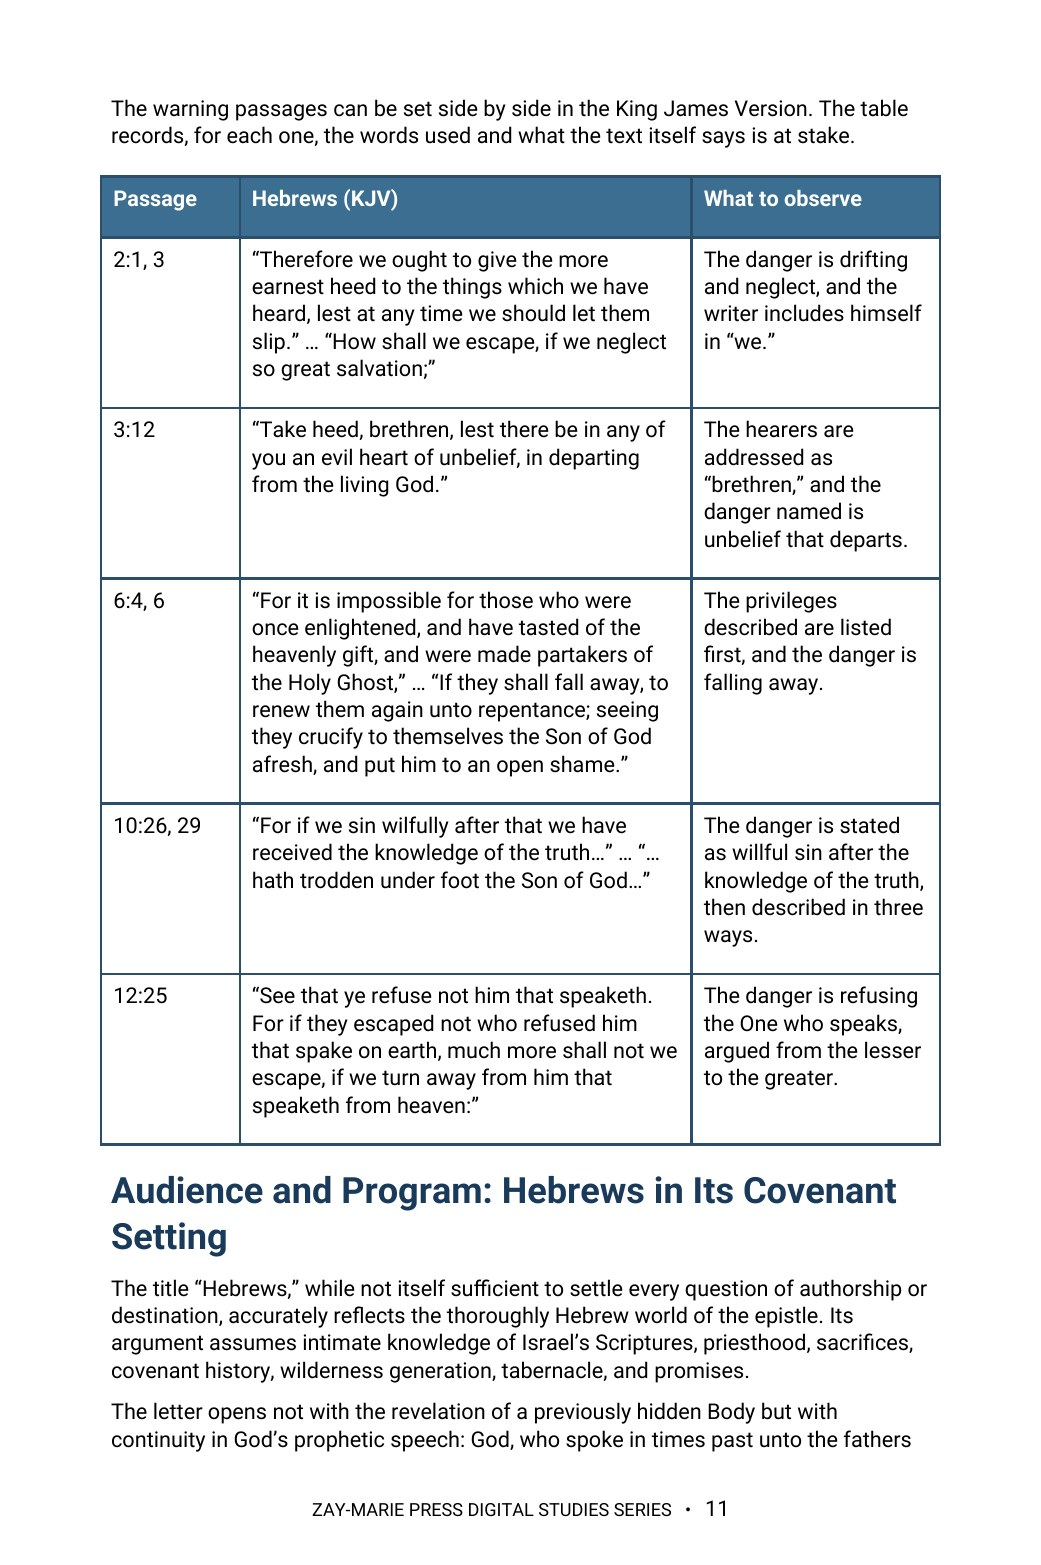
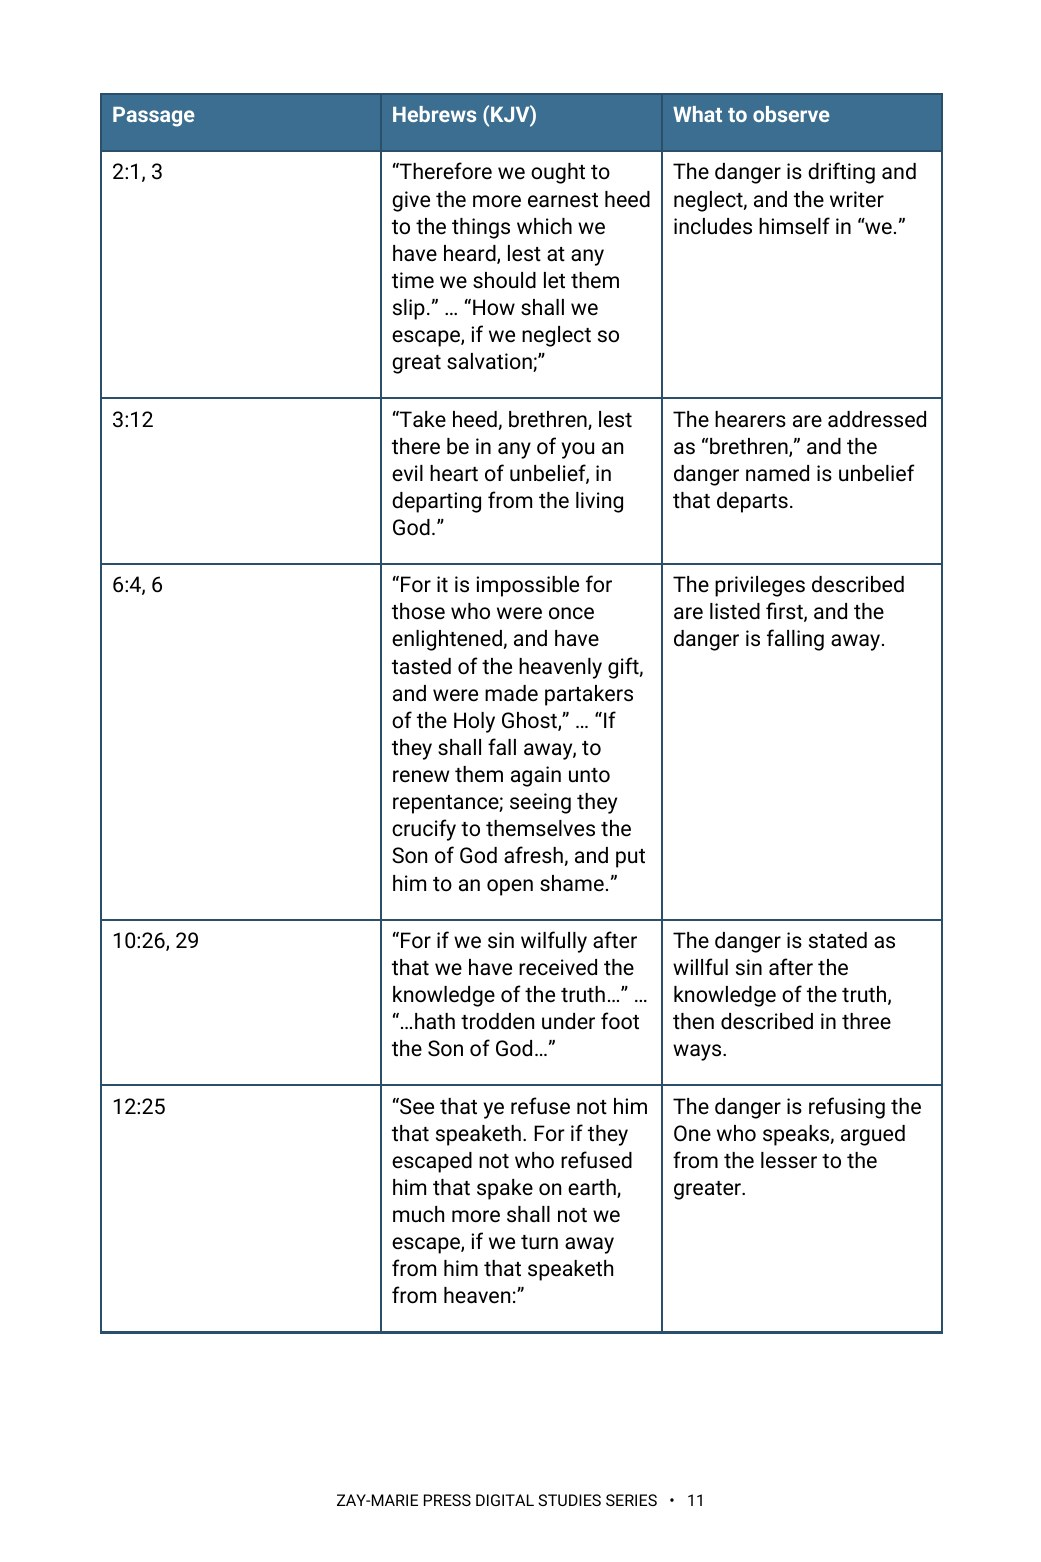
Study 24: rebuilt preview pages and trackers for Roboto 10 pt build on current page (16 pages)
Claude-Session: https://claude.ai/code/session_01HC7bs9KYP2scp4hCL6DkTp

diff --git a/CLAUDE.md b/CLAUDE.md
@@ -23,7 +23,7 @@ These are kept in the repo at `controlling-documents/` and are the current versi
 - As of v1.50 (publisher directive, 2026-10-03), the **What You Will Learn in This Study** section is always bulleted, never set as running paragraphs, written into this file in the same pass (Master Standard Section 3 item 4, Section 6 structure line, Section 22): a list of bullet points, each describing one process, textual marker or interpretive discipline the reader will practice (Section 17 still governs what they may say); at most one short lead-in line may stand above the bullets (for example, “By the end of this study, you should be able to:”); the Study Goal callout and the Study Outline keep their own forms. It governs every new study and every study rebuilt or retrofitted from now on; earlier studies take it when reopened or when the publisher directs. In every study check (Step 1), report whether the section is bulleted. First applied to Study 43.
 **`controlling-documents/Digital_Studies_Relationship_Map_v1.39.md`** — records each study's distinct subject, its related studies, the eight priced six-study collections, the Paul's Missionary Journeys cross-reference map, and the five primary catalog categories (currently version 1.39, covers Studies 1–71; update it as new studies publish, bump the version number, rename the file to match, and log the change in its own version-history table — mirroring the Master Standard's `_vX.Y` filename convention). Check a proposed topic against it before recommending or writing a new study. (2026-09-28: the file was missing from this repo despite this note referencing it; replaced from the publisher's copy and bumped v1.15→v1.25 in the same pass. If this note ever again points to a version not present under `controlling-documents/`, ask the publisher for a copy rather than proceeding without the check.)
 - **`controlling-documents/Digital_Studies_Category_Standard_v1.1.md`** — FINAL and binding (publisher, 2026-10-01): the rules for the five primary catalog categories (Foundations, Israel & Prophecy, Body of Christ, Passages, Doctrinal Themes), the ordered decision procedure for new studies, the precedents, all 71 fixed assignments, and the cover-label form for each category. Read it before placing any card or cover label. Do not ask the publisher where a study belongs; apply the procedure and state the result. Only the publisher changes a ruling; then bump this Standard's version and filename, re-letter the cover, and update the Relationship Map.
-- **`controlling-documents/Doctrinal_Upgrade_Retrofit_Plan_v1.107.md`** — working tracker for retrofitting Studies 1–59 to the 2026-10-02 doctrinal upgrade (Framework/PAM v1.1, Master Standard v1.40, Rules 7–17): withdrawn-wording search keys, impact tiers, waves and the per-study method. Read it before continuing the retrofit in any session; update status, bump the version and rename the file as work proceeds.
+- **`controlling-documents/Doctrinal_Upgrade_Retrofit_Plan_v1.108.md`** — working tracker for retrofitting Studies 1–59 to the 2026-10-02 doctrinal upgrade (Framework/PAM v1.1, Master Standard v1.40, Rules 7–17): withdrawn-wording search keys, impact tiers, waves and the per-study method. Read it before continuing the retrofit in any session; update status, bump the version and rename the file as work proceeds.
 - **`controlling-documents/Doctrinal_Packet_Standard_v0.3.md`** — Doctrinal Packet Standard (DRAFT; §7 approved). Governs the separate Doctrinal Packets product strand (5-page interpretive PDFs per Bible book — a print-friendly cover as page 1 plus 4 content pages, $2.99, KJV, pilot: Genesis, live at `packet-genesis.html`, hub `doctrinal-packets.html`; site pages say "5 Pages", cover styles live in `packets.css`, Old Testament blue and New Testament soft pale green, hub listed in Bible order). **Preview rule (publisher directive, 2026-09-29, packets only):** previews show about one page's worth in two cropped views (top of page 1 through the anchor texts; the chart section) — never the exegesis, architecture, Mystery contrast, logic chain, outline, or closing. Master Standard §16/§17 still govern Digital Studies. Bump the version and rename the file as the Standard is finalized.
 - **`controlling-documents/Preview_Page_Spoiler_Retrofit_Audit_v1.4.md`** — working tracker for the Studies 1–60 preview-page conclusion-spoiler retrofit (see the section below). Read it before continuing that audit in any session; update its status fields and changelog, bump the version, and rename the file to match as the audit proceeds — same `_vX.Y` convention as the other controlling documents. As of v1.1, the website-side half was DONE: all 60 studies' "What You'll Study" text was judged against the rule (methodology documented in the file) and 22 points across 11 studies were rewritten and pushed; an unrelated Study 22 content bug (Study 21's content had leaked into it) was also found and fixed. As of v1.2, the publisher supplied Studies 1–60's interior production PDFs and the interior-PDF half was also surveyed (read-only): 10 studies (37, 41, 45, 47, 48, 49, 51, 52, 53, 54) were found to have at least one interior "What You Will Learn" violation, 50 studies were confirmed compliant, and the orphaned `assets/study-45-sanctification-under-grace.docx` (removed from the repo per the publisher in v1.0) was confirmed word-for-word identical to Study 45's actual production interior PDF content. As of v1.3, the publisher supplied editable DOCX sources for all 10 violating studies; all 15 violating points were rewritten and approved, delivered as corrected final PDFs, and — along the way — a second defect was found and fixed (Studies 47 and 48's source DOCX still had an unintegrated cover placeholder despite both being long-published live with real covers; fixed by inserting the existing approved cover art). The website's "What You Will Learn" preview image (`study-NN-page-3.jpg`) was regenerated from the corrected content for all 10 studies and pushed to `main` (commit `cea1859`), verified against a fresh clone. **The website side of this audit is now fully compliant for all 60 studies.** Outstanding: the publisher's purchasable interior PDF files themselves have corrected versions delivered, but distribution to existing purchasers was decided by the publisher on 2026-09-29: silent swap of the files behind the existing downloads, no reissue notice (recorded in the v1.4 changelog entry; the product files are not in this repo).
 

diff --git a/controlling-documents/Doctrinal_Upgrade_Retrofit_Plan_v1.108.md b/controlling-documents/Doctrinal_Upgrade_Retrofit_Plan_v1.108.md
@@ -200,3 +200,4 @@ Working tracker for correcting published studies to the Framework/PAM v1.1, Mast
 - v1.105 (2026-10-04): Study 20 rebuilt in Roboto at 10 pt on the current page, 15 pages (was 16 on the old 432×648 page). WYWL opening paragraph removed and lead-in added (eight bullets already process lines, kept); 'framework' wording removed (4); Rule 19 conforming sentence in section 6 ('The ground of forgiveness is God’s grace, not the rite, and what Peter’s hearers are to believe is what he has just declared: that God has made this Jesus both Lord and Christ (Acts 2:36).') replacing 'The saving work is God’s work in Christ'; Acts 28 national suspension with no chronology; overlap, Rule 17 and Rule 11 sentences added to section 10; Teaching Outline numbered; seven content tables kept; Cornelius sentence not added (Acts 10:44–48 appears only as a tracing passage). Previews 2, 3 and 4 re-rendered at 1041×1562; site.js 20:15; study page 15 pages.
 - v1.106 (2026-10-04): Study 21 rebuilt in Roboto at 10 pt on the current page, 16 pages (was 17 on the old 432×648 page). WYWL opening paragraph removed and lead-in added (eight bullets already process lines, kept); 'The Framework classifies the remnant…' and the withdrawn 'gathered into the Body' clarifier replaced (remnant is Israel’s believing remnant, not the Body, never becomes the Body, stays outside the Body, Mystery Program and heavenly calling); 'framework' wording removed (5); full Romans 11 depth added (four boundaries, triad, 'Identity is fixed by divine program, not by metaphor', concurrency close, Gentile-salvation line); Rule 18 full sentence added after the Acts 28 sequence paragraph; overlap and Rule 17 sentences added to section 5; Acts 28 callout 'not a cancellation, transfer or absorption' and no-further-chronology sentence; Teaching Outline numbered; five content tables kept. Previews 2, 3 and 4 re-rendered at 1041×1562 (page 4 relabelled Isaiah 6 and the Language of Hardening); site.js 21:16; study page 16 pages.
 - v1.107 (2026-10-04): Study 22 rebuilt in Roboto at 10 pt on the current page, 15 pages (was 16 on the old 432×648 page). WYWL opening paragraph removed and lead-in added (seven bullets already process lines, kept); 'The Framework assigns John 14…' reworded to 'John 14 belongs to the Prophecy Program…'; overlap and Rule 17 sentences added to section 6; Teaching Outline numbered; four content tables kept. Previews 2, 3 and 4 re-rendered at 1041×1562; site.js 22:15; study page 15 pages.
+- v1.108 (2026-10-04): Study 24 rebuilt in Roboto at 10 pt on the current page, 16 pages (unchanged from the old 432×648 build). WYWL opening paragraph removed and lead-in added (eight bullets already process lines, kept); Framework wording removed from the WYWL Hebrews bullet and the section 10 Hebrews sentence (now the reader-facing covenant sentence); two 'Acts Overlap framework' phrases reworded; section 10 numbered; overlap and Rule 17 sentences added; Teaching Outline numbered; typo fixed.

diff --git a/controlling-documents/Digital_Studies_PAM_Audit_v1.202.md b/controlling-documents/Digital_Studies_PAM_Audit_v1.202.md
@@ -431,3 +431,4 @@ Study 15 PDF not yet supplied. Typography: none of Studies 2, 3, 6, 8 is in EB G
 - v1.199 (2026-10-04): Study 20 rebuilt in Roboto at 10 pt on the current page, 15 pages; WYWL lead-in added; Rule 19 forgiveness sentence conformed; Acts 28 national suspension, no chronology; overlap, Rule 17 and Rule 11 sentences added; Teaching Outline numbered (see Retrofit Plan v1.105).
 - v1.200 (2026-10-04): Study 21 rebuilt in Roboto at 10 pt on the current page, 16 pages; remnant paragraph conformed (withdrawn wording removed); full Romans 11 depth and Rule 18 full sentence added; overlap and Rule 17 sentences added; Acts 28 not a cancellation, transfer or absorption; Teaching Outline numbered (see Retrofit Plan v1.106).
 - v1.201 (2026-10-04): Study 22 rebuilt in Roboto at 10 pt on the current page, 15 pages; Framework wording removed from John 14 sentence; overlap and Rule 17 sentences added; Teaching Outline numbered (see Retrofit Plan v1.107).
+- v1.202 (2026-10-04): Study 24 rebuilt in Roboto at 10 pt on the current page, 16 pages; Framework wording removed (Hebrews sentence now reader-facing); overlap and Rule 17 sentences added; Teaching Outline numbered (see Retrofit Plan v1.108).
